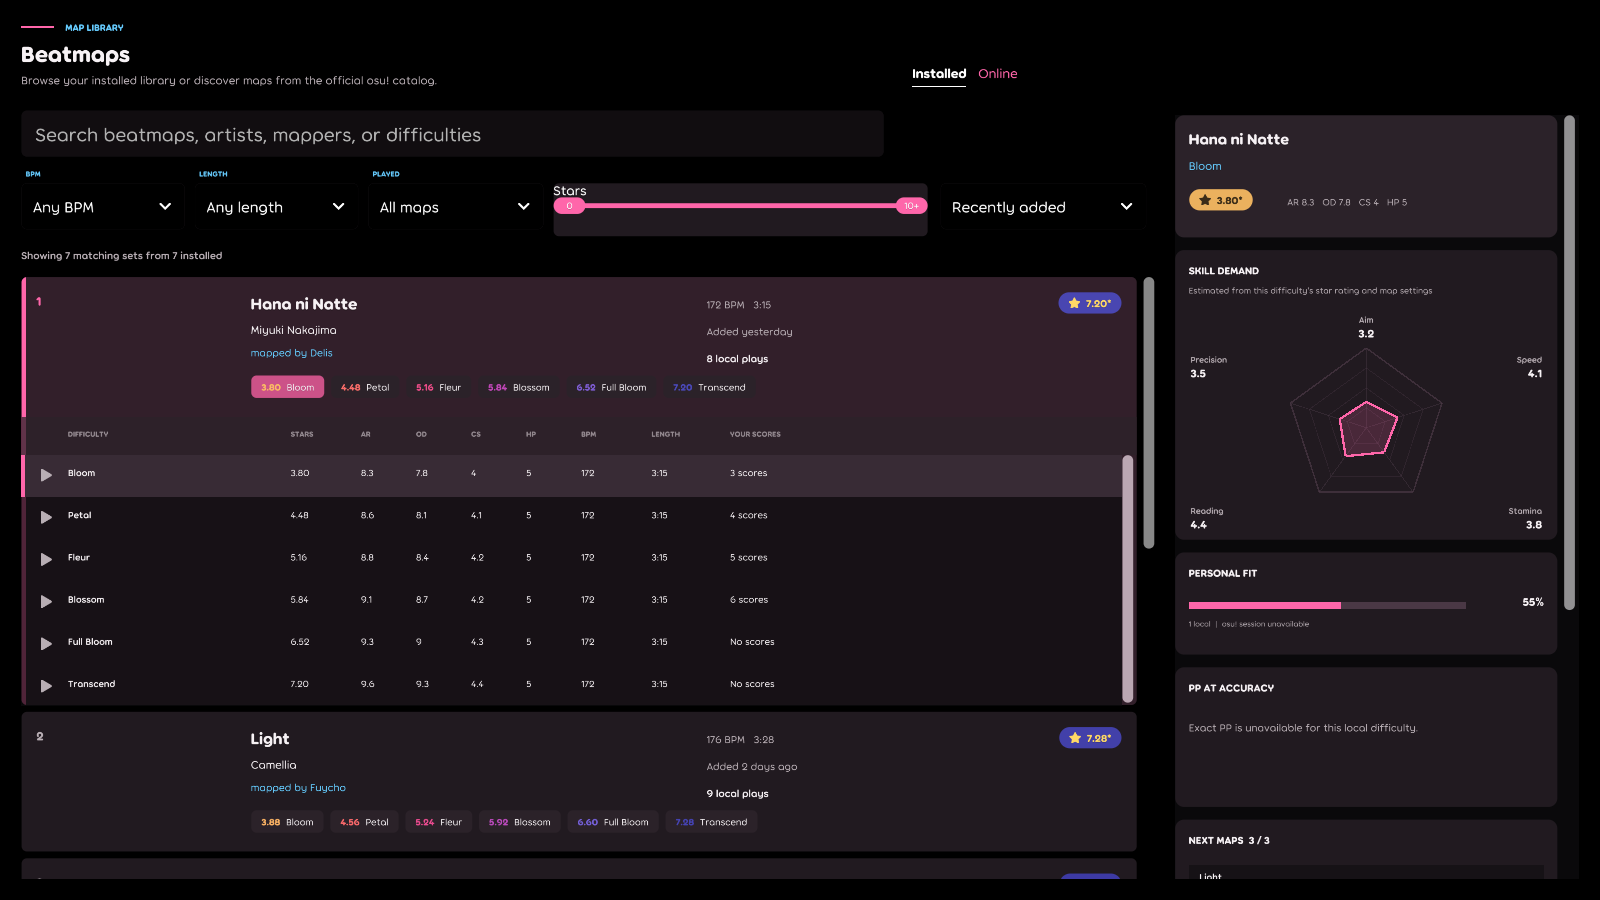
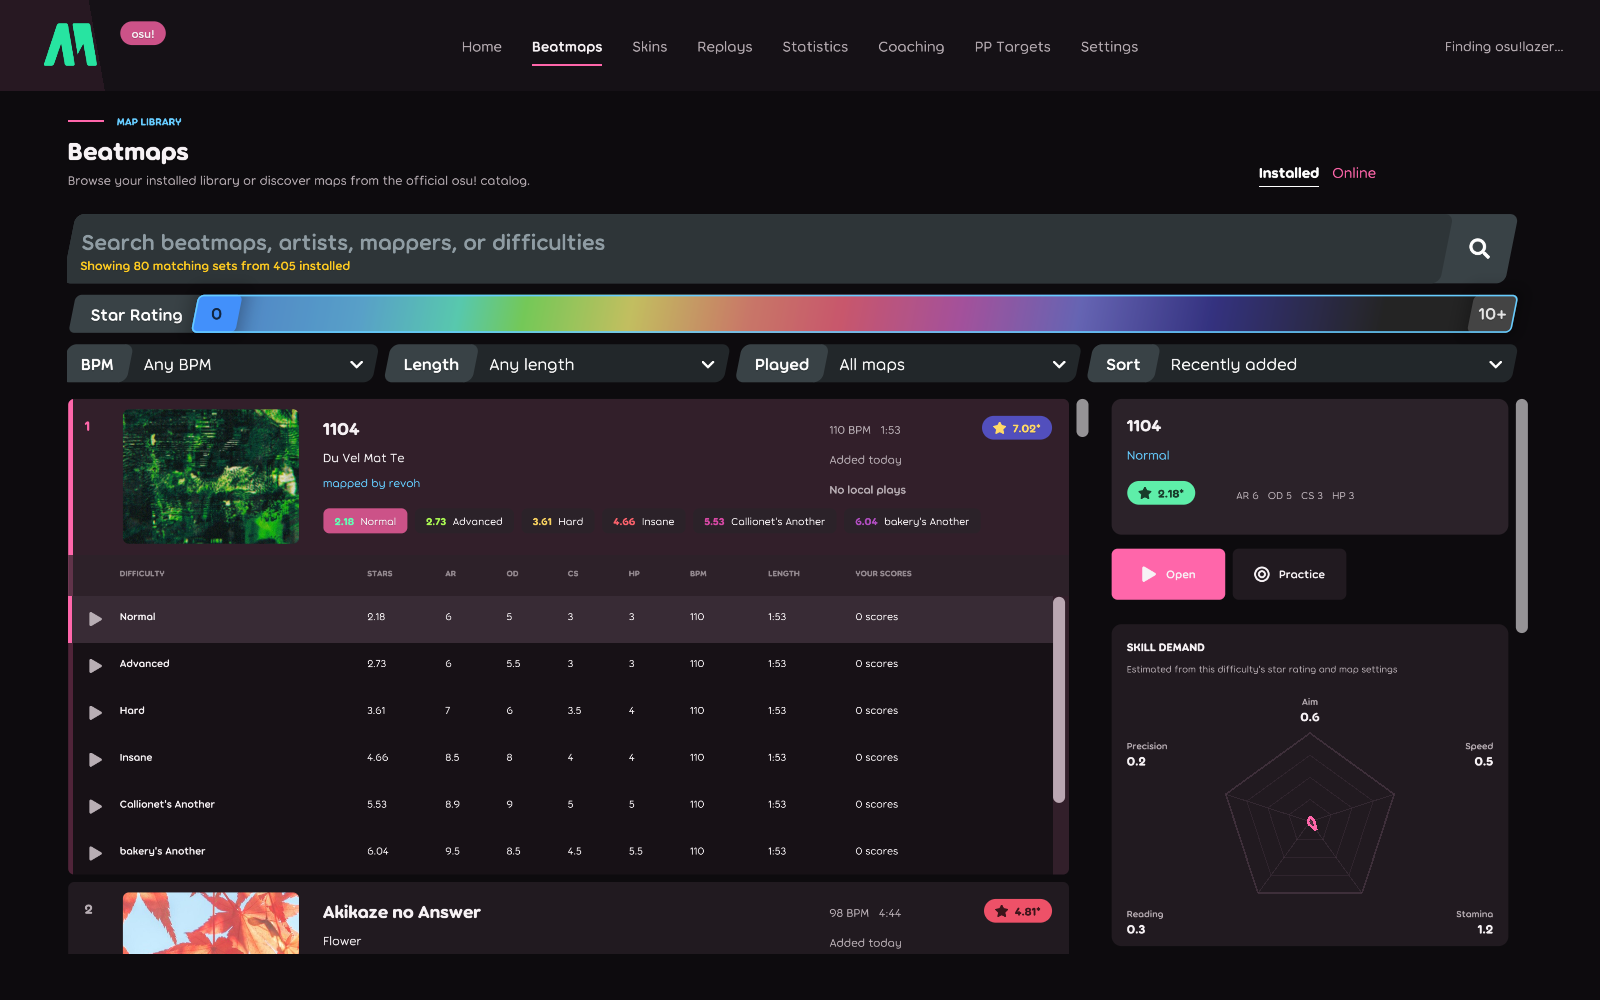
Refresh osu README with real desktop and Hub screenshots

diff --git a/README.md b/README.md
@@ -13,7 +13,7 @@ AimMod for osu! is a native osu.Framework desktop application. It combines local
 
 ### Beatmap intelligence and PP targets
 
-![AimMod for osu! beatmap browser](public/aimmod-osu-beatmaps.png)
+![AimMod desktop beatmap library with installed maps, difficulty filters and skill demand](public/aimmod-osu-beatmaps.png)
 
 - Browse installed beatmaps and inspect each difficulty separately
 - Compare aim, speed, stamina, reading, and accuracy demand
@@ -23,16 +23,12 @@ AimMod for osu! is a native osu.Framework desktop application. It combines local
 
 ### Replay analysis
 
-![AimMod for osu! replay analysis](public/aimmod-osu-replay-analysis.png)
-
 - Play local replays with the selected skin, audio controls, seeking, and exact judgement timeline
 - Classify misses from cursor and click evidence, including overshoots, undershoots, early clicks, late clicks, and unstable aim
 - Compare repeat attempts on the same difficulty to identify recurring failure points
 - Keep replay state isolated per workspace and pause playback when switching tabs
 
 ### Global coaching and practice
-
-![AimMod for osu! global coaching](public/aimmod-osu-coaching.png)
 
 - Build a recent skill profile across maps with a configurable time window
 - Analyse replay evidence in the background and cache completed calculations
@@ -46,9 +42,31 @@ AimMod for osu! is a native osu.Framework desktop application. It combines local
 - Browse attributed catalogs from osuskins.net and skins.osuck.net, inspect screenshots, and keep downloads temporary until saving or importing
 - Validate archive type, size, paths, and redirect hosts before importing; public Google Drive files are supported while MEGA and authenticated or challenged links open in the browser
 - Link an AimMod Hub account with a device code and manually share a score, replay file, or judgement analysis as private, unlisted, or public
-- Retain a bounded upload queue across restarts with cancel and retry controls; sharing is private by default and never automatic
+- Retain an upload queue across restarts with cancel and retry controls. New sharing preferences default to public; private and unlisted are available. Automatic sharing is off until explicitly enabled, with PP and accuracy thresholds.
 
 The native app is self-contained. Stable and preview channels update in place through Velopack on Windows and Linux; portable archives remain available for manual installs. See [the native app guide](osu-native/README.md) and [release-channel documentation](osu-native/docs/release-channels.md).
+
+### AimMod Hub in your browser
+
+[AimMod Hub](https://aimmod.app/osu) complements the desktop app with beatmap and skin discovery, public scores, replay sharing and browser replay playback.
+
+**Beatmap search and difficulty details**
+
+![AimMod Hub beatmap search with a selected beatmap and direct open links](public/aimmod-hub-beatmaps.png)
+
+Search the official catalog, filter by difficulty and map settings, inspect a set, and open it in osu! or AimMod. Search preferences are retained across reloads.
+
+**PP at your chosen accuracy**
+
+![AimMod Hub PP targets with calculated full-combo performance values](public/aimmod-hub-pp-targets.png)
+
+Compare full-combo PP at a chosen accuracy, mod combination and scoring mode. Results are cached by difficulty revision and calculation settings. These are map calculations, not personal predictions; skill compatibility remains in the desktop app.
+
+**Guides for your next practice session**
+
+![AimMod Hub osu knowledge base with learning paths and sourced practice guides](public/aimmod-hub-knowledge-base.png)
+
+The [osu! knowledge base](https://aimmod.app/osu/learn) covers reading, timing, aim control, slider breaks and practice planning, with sources and relevant video resources.
 
 ## AimMod for KovaaK's
 
